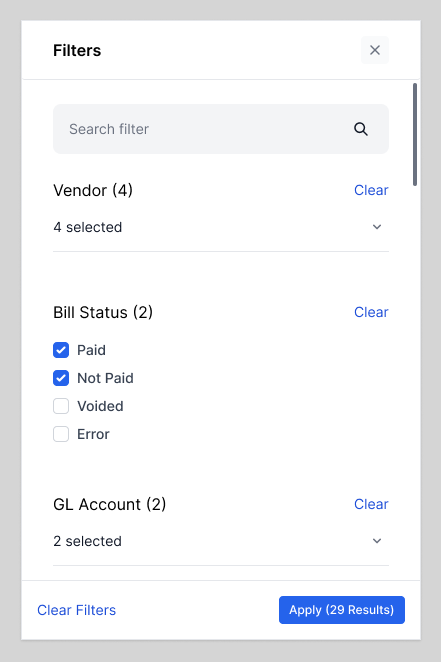
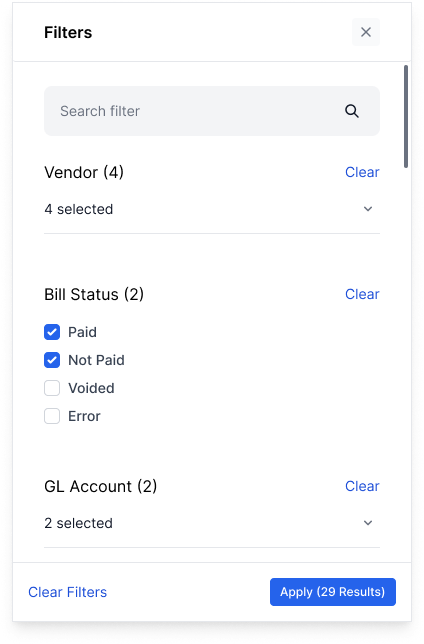
Filters: menu figure from the canonical file, not a crop off a flat sheet
Tyler pointed at the finalized Filters file. The All Filters modal there renders
clean at 424x644, so menu-populated is now that render instead of a 441x662
panel cut out of the flattened engineering sheet. Same screen, same state, real
source.

Caption picks up what the file confirms: the modal is a fixed 400 by 620, a 60px
header and a 60px footer pinned around a 500px scrolling body. The footer being
pinned is why the result count is always in view, which is the actual mechanism
behind the Apply-shows-its-consequences claim, so the caption says that instead
of leaving it implied.

Claude-Session: https://claude.ai/code/session_0122cRK9tWp9SnWue4tjdnci

diff --git a/work/filters.html b/work/filters.html
@@ -97,7 +97,7 @@
   </ul>
   <p>The persistence decision was the one worth arguing about. We could have remembered whatever filters you left applied, which is the cheaper build and the thing people ask for first. We went with a view you define on purpose instead. A default returns you to your baseline, the search you actually start from, rather than to the tail end of whatever you were digging through yesterday.</p>
   <figure class="wide"><img class="zoomable" src="../assets/filters/after-bills.png" alt="Bills 2.0 with Status and Owner filters applied as blue pills, a showing 112 items count, the All Filters control, and the saved view selector"><figcaption>Bills 2.0: applied filters stay visible as pills, the result count sits up front, and the view selector holds the whole arrangement.</figcaption></figure>
-  <figure><img class="zoomable" src="../assets/filters/menu-populated.png" alt="The All Filters menu with three filter groups set: Vendor 4 showing four selected, Bill Status 2 with Paid and Not Paid checked, GL Account 2 showing two selected, and an Apply button reading 29 results"><figcaption>Three filters set and the menu never closed. Each group carries its own count, long lists collapse to a summary, and the consequence sits on the button: 29 results, before you commit.</figcaption></figure>
+  <figure><img class="zoomable" src="../assets/filters/menu-populated.png" alt="The All Filters menu with three filter groups set: Vendor 4 showing four selected, Bill Status 2 with Paid and Not Paid checked, GL Account 2 showing two selected, and an Apply button reading 29 results"><figcaption>Three filters set and the menu never closed. Each group carries its own count, long lists collapse to a summary, and the footer stays pinned so the consequence is always in view: 29 results, before you commit.</figcaption></figure>
   <figure class="wide"><img class="zoomable" src="../assets/filters/pill-edit.png" alt="Bills 2.0 with an applied Status pill expanded in place into a checkbox list showing Not Posted and Posted selected, above an Apply button reading 112 results"><figcaption>An applied filter is a control, not a label. Click the pill and it opens where it sits.</figcaption></figure>
   <figure class="wide"><img class="zoomable" src="../assets/filters/findfilter-chips.png" alt="The Find and Filter bar with five chips applied, each naming a single value: Status Open, Assignee Unassigned, Assignee William Anderson, Stage Needs Review, Stage Under Review"><figcaption>What naming every value costs: two assignees and two stages, and the row is spent.</figcaption></figure>
   <figure class="wide"><img class="zoomable" src="../assets/filters/pill-anatomy.png" alt="Four filter pills shown closed and open: Vendor 5 opening to five checked vendor names, Bill Status 2 to Paid and Not Paid, GL Account 1 to a single account, Owner 1 to a single owner"><figcaption>The shipped pill, four ways. The label carries the count so it stays short, and the values live inside it.</figcaption></figure>
